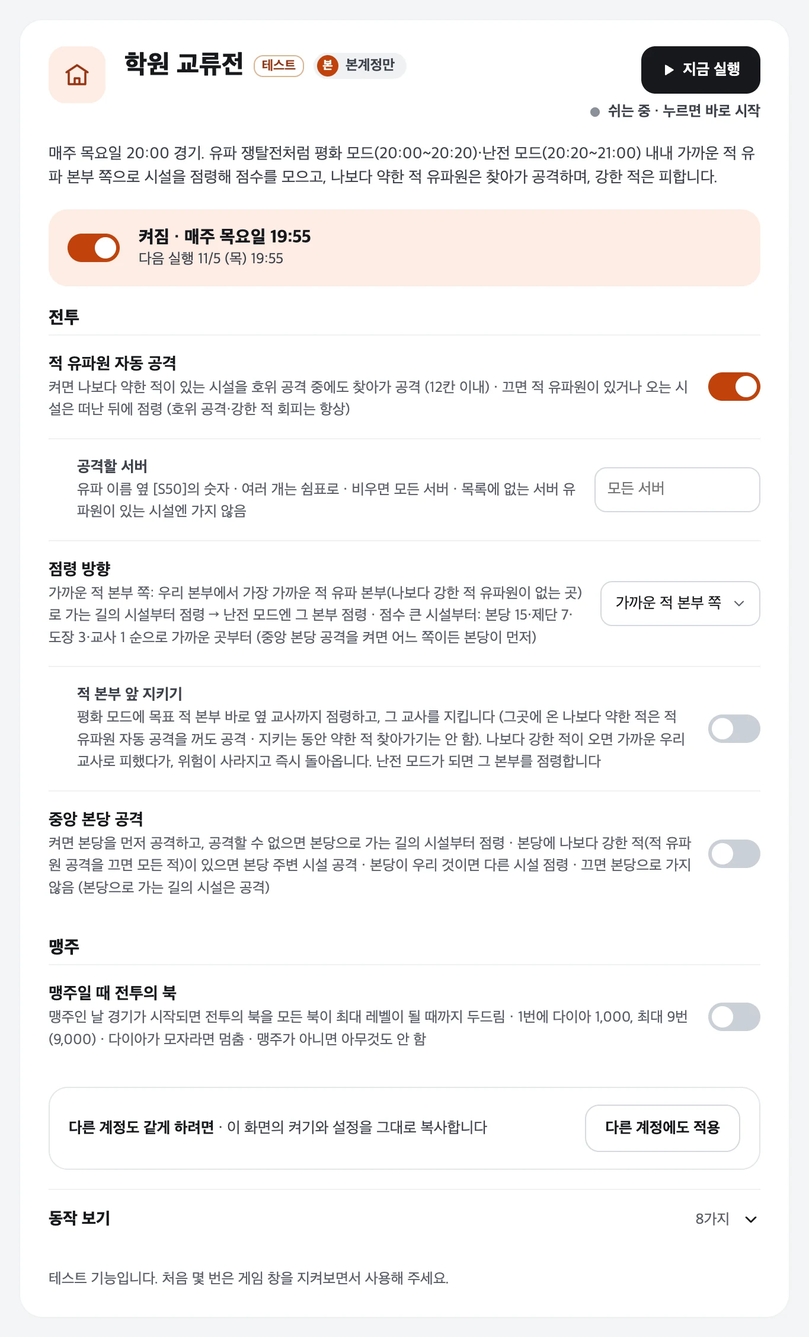
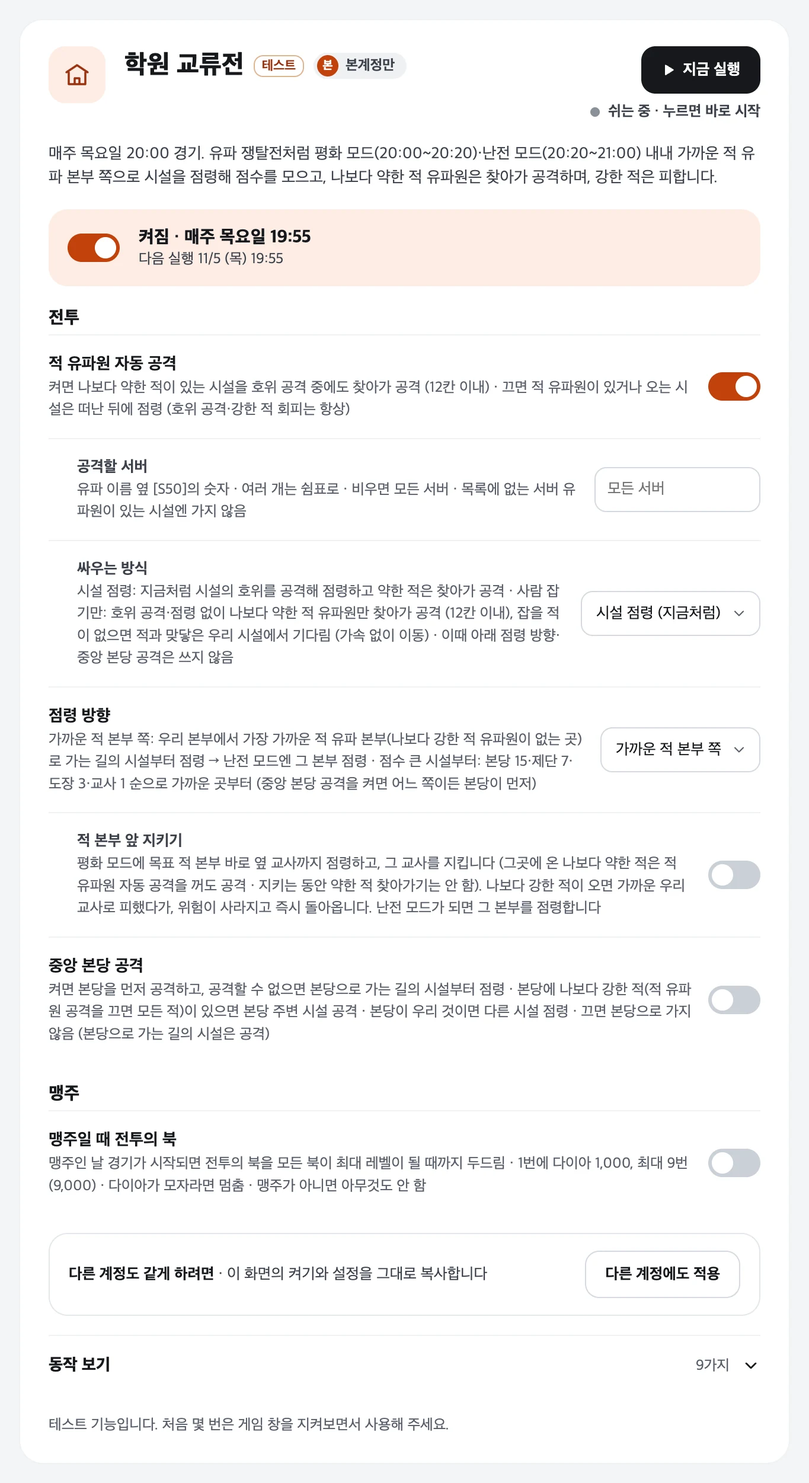
v1.5.182 홈페이지: 싸우는 방식·반상의 연무·경기 중 재시작·경기 중 설치 확인 창 등 (README와 같게, 교류전·쟁패전·자양 수프·일일 보상 설정 화면 이미지)
Claude-Session: https://claude.ai/code/session_01KmZac8kzEr3Wgyv8DkKzJ9

diff --git a/docs/features.html b/docs/features.html
@@ -45,7 +45,7 @@
     <b>주기 예약</b>
     <a href="#periodic">주기 예약이란</a><a href="#guaji">방치 수익 · 오중탑 …</a>
     <b>이벤트</b>
-    <a href="#events">이벤트 메뉴</a><a href="#hexwar">영지 쟁탈전</a><a href="#bluesea">푸른 바다에 피는 꽃</a><a href="#feast">연회 참가 · 각력 단련</a><a href="#jjdms">식신 파견</a><a href="#pzjg">카드 게임</a><a href="#match3">지혜 대결 퍼즐 대전</a>
+    <a href="#events">이벤트 메뉴</a><a href="#hexwar">영지 쟁탈전</a><a href="#town76">마을 풍경도</a><a href="#bluesea">푸른 바다에 피는 꽃</a><a href="#feast">연회 참가 · 각력 단련</a><a href="#jjdms">식신 파견</a><a href="#pzjg">카드 게임</a><a href="#match3">지혜 대결 퍼즐 대전</a>
     <b>경기 · 요일 예약</b>
     <a href="#sdsl">흑암 강림</a><a href="#taTeam">팀 경기장</a><a href="#arenaKeep">도장 연무 목표 순위</a><a href="#myld">명장 쟁패전 편성</a><a href="#ghApply">유파 경기 자동 신청</a><a href="#gvg">유파 쟁탈전</a><a href="#fz">학원 교류전</a><a href="#sjg">사검귀 습격</a><a href="#yc">학원 쟁패전</a>
     <b>공통</b>
@@ -183,7 +183,15 @@
           <div class="feat-h"><i data-i="castle"></i><div><h3>영지 쟁탈전</h3><div class="when">11/14~11/21 · 일일 보상 때 (대전은 주기 예약 끝에도)</div></div></div>
           <div class="set" id="ev-hexwar" data-s data-st="영지 쟁탈전 받는 보상" data-k="영지쟁탈전 영지 영지패스 패스 무료패키지 임무 활약도 일일임무 레벨보상 영지레벨 단계보상 신예무사 기금 대전횟수 결산 순위 메일 이벤트"><b>받는 보상 (v1.5.146부터)</b>매일 무료 패키지(영지 패스 2장), 임무(일일 임무 활약도 10·30·50·70·90·100 → 영지 패스 1장씩), 레벨 보상(영지 레벨이 오를 때마다), 단계 보상(신예 무사 영지 패스 5장 등 단계가 오를 때마다), 기금 무료 단계(대전 횟수 1·5·10…70번)를 받습니다. 임무는 일일 임무 활약도뿐이라 일일 보상이 일일 임무를 채우면 받고, 못 받은 임무는 대전 기록 줄 끝에 남깁니다. <b>매일 다이아 패키지</b>(다이아 300 → 영지 패스 4장, 하루 1번)는 이벤트 메뉴 → 영지 쟁탈전 카드의 「매일 다이아 패키지 사기」를 켠 경우에만 삽니다(기본 끔, v1.5.152부터). 현금 결제 패키지·교환소는 하지 않습니다. 순위·단계 결산 보상은 게임이 메일로 보내고, 일일 보상의 메일 보상 받기가 받습니다.</div>
           <div class="set" id="ev-hexwar-battle" data-s data-st="대전 (영지 쟁탈전)" data-k="대전 영지쟁탈전 영지 영지패스 육각 땅따먹기 봇 금광 자원 병영 방어탑 미개척 배율 다중권 카드강화 결산 이벤트"><b>대전 (설정 없이 늘, v1.5.147부터)</b>봇 상대 3분 육각 칸 땅따먹기를 화면에서 실제로 두어(금광·자원 칸 먼저, 다음 병영·방어탑, 미개척은 살 것이 없을 때) 가진 영지 패스를 모두 씁니다(1판에 1장, 이기면 Pt +100, 져도 +20). 일일 보상과 주기 예약이 끝날 때마다 영지 패스가 있으면 하고, 판 사이마다 다른 예약 차례가 되면 멈춰 그 예약을 먼저 한 뒤 이어서 합니다. 다음 경기 15분 전과 결산 시간, 휴대폰에서 게임 화면을 본 뒤 홈으로 나가 게임이 잠깐 멈춘 동안(v1.5.148부터)에는 하지 않습니다. 배율(다중권)은 게임 설정 그대로 두고, 교환소는 하지 않습니다. 판 수·승패·Pt는 그 판이 실제로 시작된 뒤의 새 결과 창으로만 세고, 대전이 시작되지 않거나 끝나지 않으면 실패로 남기지 않고 까닭과 함께 다음 실행에서 이어 합니다(v1.5.152부터). 결과 창은 다 열린 뒤 닫고 닫힐 때까지 기다린 다음 다음 판을 시작합니다(v1.5.153부터, 전에는 휴대폰에서 결과 창이 남아 2판째가 시작되지 않았습니다). 휴대폰에서 판 사이에 게임 화면을 들락거려 대전이 일시정지되어도 실패로 남기지 않고 다음 실행에서 이어 하며, 어떻게 끝나든 판 수·Pt·남은 영지 패스 요약 줄을 남깁니다(v1.5.155부터).</div>
-          <div class="set" id="ev-hexwar-card" data-s data-st="카드 강화 (영지 쟁탈전)" data-k="카드강화 카드 강화 강화코인 카드조각 공용조각 덱 금광 병영 방어탑 룬석 기술 영지쟁탈전 이벤트"><b>덱 · 카드 강화 · 기술 (설정 없이 늘, v1.5.149부터 · 덱 고르기와 기술은 v1.5.152부터)</b>판을 하기 전과 끝난 뒤, 가진 카드 중 게임 전투력이 가장 큰 덱(8장, 금광 카드는 늘, R·SR·SSR·SSSR 한 장씩, 방어탑 카드 한 장은 늘)으로 바꿉니다. 지금 덱보다 3% 넘게 셀 때만 바꿉니다(게임 전투력에 기술은 들지 않아, 기술을 올린 카드가 조금 센 카드에 밀려 빠지지 않게, v1.5.153부터). 그다음 이벤트가 끝나면 사라지는 강화 코인과 카드 조각으로 금광 카드 → 덱 전투력이 많이 오르는 강화 순서로 한 레벨씩 강화하고, 남은 것은 덱에 가까운 센 카드에 씁니다. 카드 조각이 모자라면 같은 등급 공용 조각으로 바꿔 채우고(전투력이 오르는 강화에만, 끝나기 24시간 안이면 모두), 법진석으로 덱 카드의 기술 칸을 열고 올립니다. 못 올린 덱 카드는 까닭을 남기고, 다이아·유료 아이템은 쓰지 않습니다.</div>
+          <div class="set" id="ev-hexwar-card" data-s data-st="카드 강화 (영지 쟁탈전)" data-k="카드강화 카드 강화 강화코인 카드조각 공용조각 덱 금광 병영 방어탑 룬석 기술 영지쟁탈전 이벤트"><b>덱 · 카드 강화 · 기술 (설정 없이 늘, v1.5.149부터 · 덱 고르기와 기술은 v1.5.152부터)</b>판을 하기 전과 끝난 뒤, 가진 카드 중 게임 전투력이 가장 큰 덱(8장, 금광 카드는 늘, R·SR·SSR·SSSR 한 장씩, 방어탑 카드 한 장은 늘)으로 바꿉니다. 지금 덱보다 3% 넘게 셀 때만 바꿉니다(게임 전투력에 기술은 들지 않아, 기술을 올린 카드가 조금 센 카드에 밀려 빠지지 않게, v1.5.153부터). 그다음 이벤트가 끝나면 사라지는 강화 코인과 카드 조각으로 금광 카드 → 덱 전투력이 많이 오르는 강화 순서로 한 레벨씩 강화하고, 남은 것은 덱에 가까운 센 카드에 씁니다. 카드 조각이 모자라면 같은 등급 공용 조각으로 바꿔 채우고(전투력이 오르는 강화에만, 끝나기 24시간 안이면 모두), 법진석으로 덱 카드의 기술 칸을 열고 올립니다. 못 올린 덱 카드는 까닭을 남기고, 다이아·유료 아이템은 쓰지 않습니다. 게임에서 카드·덱 정보를 읽지 못한 실행은 덱 바꾸기·카드 강화를 건너뛰고 다음 실행에서 다시 합니다(v1.5.182부터, 전에는 빈 정보로 덱을 새로 짜다 「저장 실패」로 끝났음).</div>
+        </div>
+      </article>
+
+      <article class="feat" id="town76" style="grid-template-columns:minmax(0,1fr)" data-k="마을풍경도 활기찬성의마을풍경도 풍경도 반상의연무 체스 미니게임 두루마리 돌격 천벌 부활 다이아">
+        <div>
+          <div class="feat-h"><i data-i="castle"></i><div><h3>활기찬 성의 마을 풍경도</h3><div class="when">11/20~11/27 · 일일 보상 때 (미니게임은 주기 예약 끝에도)</div></div></div>
+          <div class="set" id="ev-town76" data-s data-st="마을 풍경도 받는 보상" data-k="마을풍경도 풍경도 로그인 무료패키지 무한패키지 사냥상자 추첨 모집 공방 인기투표 패스 임무 이벤트"><b>받는 보상</b>로그인(무료, 고급·호화를 산 경우 그것도), 무료 패키지, 무한 패키지 무료 단계, 사냥 상자, 추첨·모집·공방 횟수 보상, 인기 투표 단계·임무 보상, 패스·임무. 이벤트 아이템 자동 사용을 켜면(기본 켬) 추첨권·모집권(설정한 횟수까지)·사냥·투표·장인의 공방(건설) 아이템과 패스 [사용] 아이템도 씁니다.</div>
+          <div class="set" id="ev-town76-chess" data-s data-st="미니게임 반상의 연무 (마을 풍경도)" data-k="반상의연무 반상 연무 체스 미니게임 두루마리 체스두루마리 돌격 천벌 부활 다이아 소탕 마을풍경도 이벤트"><b>미니게임 「반상의 연무」 (설정 없이 늘, v1.5.182부터)</b>하루 1판을 화면에서 실제로 둡니다(체스 두루마리 1개). 다음 적 차례에 잡히지 않는 칸 중 점수가 큰 적부터 잡고, 막히면 가진 돌격·천벌 아이템을 씁니다. 다른 예약까지 8분이 안 남았으면 그 예약 뒤에 두고, 남은 두루마리는 한 판 둔 뒤 소탕합니다(이벤트 아이템 자동 사용).<br><b>부활에 다이아 쓰기</b>(기본 끔): 이벤트 메뉴 → 마을 풍경도 카드에서 켜면, 졌을 때 다이아 200으로 부활합니다(판당 최대 2번 · 하루 400까지). 끄면 부활하지 않고 그대로 집계합니다.</div>
         </div>
       </article>
 
@@ -199,7 +207,7 @@
 
       <div class="mini-grid" style="margin-bottom:8px">
         <div class="mini" id="feast"><div class="feat-h"><i data-i="cup"></i><div><h3>연회 참가</h3><div class="when">켰을 때 · 하루 1~10회 (기본 끔)</div></div></div><p>이벤트 연회에 손님으로 참가해 다이아·교환 코인을 받고, 참가한 연회가 끝나는 대로 다음 연회에 들어갑니다. 기다리는 동안 채팅의 협상 협력 요청도 돕습니다.</p><p>이벤트 메뉴 → 할로윈 카니발 카드의 예약 기능에서 켜고 끄고, <kbd>자세한 설정</kbd>에서 횟수를 고릅니다. 그 이벤트가 끝나 있으면 「지난 이벤트」 탭의 쉬는 카드에 있습니다(v1.5.137 전에는 기능 설정의 주기 예약).</p><button class="see" type="button" data-zoom="img/panel-feast.webp" data-alt="연회 참가 설정">설정 화면 보기 →</button></div>
-        <div class="mini" id="kanjia-all" data-s data-st="각력 단련 참가권 모두 사용" data-k="각력단련 각력 참가권 특별훈련 입장권 모두사용"><div class="feat-h"><i data-i="flag"></i><div><h3>각력 단련 참가권 모두 사용</h3><div class="when">켰을 때 · 일일 보상 맨 끝 (기본 끔)</div></div></div><p>각력 단련 하루 5회(임무 분량)는 일일 보상이 늘 합니다. 이 칸을 켜면 그 뒤 남은 특별 훈련 입장권을 일일 보상 맨 끝에 모두 써서 참가합니다. 한 판에 4~5분이라 장수만큼 오래 걸립니다. 그사이 다른 예약 차례가 되면(명장 쟁패전 편성이 가깝거나 경기 20분 전도) 판 사이에서 멈춰 그 예약을 먼저 하고, 그 예약 끝에 남은 참가권을 이어서 씁니다(v1.5.164). 이어 쓸 때는 날이 바뀌어 하루 5회 전이어도 다른 예약 차례를 봅니다(v1.5.165).</p><p>이벤트 메뉴 → 각력 단련 카드의 예약 기능에서 켜고 끕니다. 이벤트가 끝나 있으면 「지난 이벤트」 탭의 쉬는 카드에 있습니다(v1.5.137 전에는 기능 설정 → 일일 보상).</p></div>
+        <div class="mini" id="kanjia-all" data-s data-st="각력 단련 참가권 모두 사용" data-k="각력단련 각력 참가권 특별훈련 입장권 모두사용"><div class="feat-h"><i data-i="flag"></i><div><h3>각력 단련 참가권 모두 사용</h3><div class="when">켰을 때 · 일일 보상 맨 끝 (기본 끔)</div></div></div><p>각력 단련 하루 5회(임무 분량)는 일일 보상이 늘 합니다. 5회 사이에도 다른 예약 차례가 되면 판 사이에 멈추고, 그 예약 끝에 남은 판을 이어서 합니다(v1.5.182부터). 이 칸을 켜면 그 뒤 남은 특별 훈련 입장권을 일일 보상 맨 끝에 모두 써서 참가합니다. 한 판에 4~5분이라 장수만큼 오래 걸립니다. 그사이 다른 예약 차례가 되면(명장 쟁패전 편성이 가깝거나 경기 20분 전도) 판 사이에서 멈춰 그 예약을 먼저 하고, 그 예약 끝에 남은 참가권을 이어서 씁니다(v1.5.164). 이어 쓸 때는 날이 바뀌어 하루 5회 전이어도 다른 예약 차례를 봅니다(v1.5.165).</p><p>이벤트 메뉴 → 각력 단련 카드의 예약 기능에서 켜고 끕니다. 이벤트가 끝나 있으면 「지난 이벤트」 탭의 쉬는 카드에 있습니다(v1.5.137 전에는 기능 설정 → 일일 보상).</p></div>
       </div>
 
       <article class="feat" id="jjdms">
@@ -426,6 +434,7 @@
             <li><b>적 본부 앞 지키기</b>(기본 끔, 점령 방향이 「가까운 적 본부 쪽」일 때만): 평화 모드에 목표 적 본부 바로 옆 교사까지 점령하고, 그 교사를 지킵니다. 그곳에 온 나보다 약한 적은 공격하고(<b>「적 유파원 자동 공격」을 꺼도 지키기 위해 공격</b>, 공격할 서버를 적었으면 그 서버만), 지키는 동안 약한 적 찾아가기·다른 시설 점령은 하지 않습니다. 나보다 강한 적이 오면 가까운 우리 교사로 피했다가, 위험이 사라지고 즉시 돌아옵니다. 그사이 빼앗겼으면 다시 점령합니다. 난전 모드가 되면 그 본부를 점령합니다. 우리 유파원이 지키는 시설은 적이 먼저 그 유파원을 이겨야 빼앗을 수 있습니다.</li>
             <li><b>나보다 약한 적 유파원</b>: 지금 시설에 있으면 먼저 공격하고, 갈 수 있는 12칸 안 시설에 와 있으면 호위 공격 중이라도 찾아갑니다. 나보다 강한 적이 있거나 오면 안전한 시설(우리·동맹 시설 먼저)로 피합니다.</li>
             <li><b>적 유파원 자동 공격</b>(기본 켬): 끄면 호위만 공격하고, 적 유파원이 있거나 오는 시설은 적이 떠난 뒤에 점령합니다. 그동안 다른 시설 확장은 계속하고, 강한 적 회피는 그대로입니다. <b>공격할 서버</b>를 정하면 다른 서버 유파원은 공격하지 않을 때처럼 피합니다.</li>
+            <li><b>싸우는 방식</b>(v1.5.182부터, 적 유파원 자동 공격을 켰을 때만): <b>시설 점령</b>(기본, 지금까지와 같음) 또는 <b>사람 잡기만</b>. 사람 잡기만이면 평화·난전 모드 모두 호위 공격·시설 점령은 하지 않고 <b>나보다 약한 적 유파원만</b> 공격합니다. 지금 시설 → 12칸 안 시설 순서로 찾아가고(난전 모드엔 적 본부의 적도), 잡을 적이 없으면 적 유파 시설과 맞닿은 우리 시설(없으면 빈 시설과 맞닿은 곳) 중 가까운 곳으로 <b>가속 없이</b> 옮겨 기다립니다(먼 빈 시설을 점령하러 가속하며 다이아를 쓰지 않음). 나보다 강한 적이 오면 가까운 우리 시설로 피합니다. 이때 점령 방향·적 본부 앞 지키기·중앙 본당 공격은 쓰지 않습니다(설정 화면에서 흐리게 보임). 맹주일 때 전투의 북은 그대로 합니다. 학원 쟁패전도 같습니다.</li>
             <li><b>부활</b>: 스스로 전투 불능이 된 뒤(지휘 부채가 조금 남았을 때) 부활하지 못하고 멈추던 문제를 고쳤습니다(v1.5.129). 부활 시각이 지나도 부활하지 않으면 요란 비서가 직접 부활합니다.</li>
             <li><b>중앙 본당 공격</b>(기본 끔): 켜면 두 모드 모두 본당 → 본당으로 가는 길의 시설 순서로 먼저 공격합니다. 본당이 우리 것이거나 갈 수 없으면 위 방식대로. 끄면 <b>본당으로는 가지 않습니다</b>(v1.5.116부터).</li>
             <li><b>유파 쟁탈전과 같이</b>(v1.5.132부터): 남은 이동이 20초 미만이면 이동 가속을 하지 않고(강한 적을 피할 때는 그대로), 호위 HP가 거의 0이고 다른 유파원이 와 있는 시설은 고르지 않으며, 경기가 끝나면 로그에 <a href="#gvg">경기 요약</a> 한 줄을 남깁니다.</li>
@@ -433,7 +442,7 @@
             <li><b>맹주일 때 전투의 북</b>(기본 끔): 맹주인 날 경기가 시작되면 전투의 북을 모두 최대 레벨까지 두드립니다 (1번에 다이아 1,000, 최대 9번).</li>
             <li>유파 신청은 회장·부회장 등이 게임에서 하고, 신청·선정되지 않은 주는 건너뜁니다.</li>
           </ul>
-          <p class="muted small">경기 내내 시설을 점령하는 방식·부활 고침(v1.5.129), 확장 방향(v1.5.130), 점령 방향·적 본부 앞 지키기(v1.5.131)는 아직 실전에서 확인하기 전입니다(교류전 첫 경기 11/19 목). 처음 몇 번은 게임 창을 지켜봐 주세요.</p>
+          <p class="muted small">싸우는 방식 「사람 잡기만」(v1.5.182)은 아직 실전에서 확인하기 전입니다. 처음 몇 번은 게임 창을 지켜봐 주세요.</p>
         </div>
         <figure class="shot panel"><img loading="lazy" src="img/panel-fz.webp" alt="학원 교류전 설정 화면"></figure>
       </article>
@@ -461,6 +470,7 @@
             <li><b>적 본부 앞 지키기</b>(기본 끔, 점령 방향이 「가까운 적 본부 쪽」일 때만): 평화 모드에 목표 적 본부 바로 옆 교사까지 점령하고, 그 교사를 지킵니다. 그곳에 온 나보다 약한 적은 공격하고(<b>「적 유파원 자동 공격」을 꺼도 지키기 위해 공격</b>, 공격할 서버를 적었으면 그 서버만), 지키는 동안 약한 적 찾아가기·다른 시설 점령은 하지 않습니다. 나보다 강한 적이 오면 가까운 우리 교사로 피했다가, 위험이 사라지고 즉시 돌아옵니다. 그사이 빼앗겼으면 다시 점령합니다. 난전 모드가 되면 그 본부를 점령합니다. 우리 유파원이 지키는 시설은 적이 먼저 그 유파원을 이겨야 빼앗을 수 있습니다.</li>
             <li><b>나보다 약한 적 유파원</b>: 지금 시설에 있으면 먼저 공격하고, 갈 수 있는 12칸 안 시설에 와 있으면 호위 공격 중이라도 찾아갑니다. 나보다 강한 적이 있거나 오면 안전한 시설로 피합니다.</li>
             <li><b>적 유파원 자동 공격</b>(기본 켬): 끄면 호위만 공격하고, 적 유파원이 있거나 오는 시설은 적이 떠난 뒤에 점령합니다(그동안 다른 시설 점령은 계속). <b>공격할 서버</b>를 정하면 다른 서버 유파원은 공격하지 않을 때처럼 피합니다.</li>
+            <li><b>싸우는 방식</b>(v1.5.182부터, 적 유파원 자동 공격을 켰을 때만): <b>시설 점령</b>(기본, 지금까지와 같음) 또는 <b>사람 잡기만</b>. 사람 잡기만이면 평화·난전 모드 모두 호위 공격·시설 점령은 하지 않고 <b>나보다 약한 적 유파원만</b> 공격합니다. 지금 시설 → 12칸 안 시설 순서로 찾아가고(난전 모드엔 적 본부의 적도), 잡을 적이 없으면 적 유파 시설과 맞닿은 우리 시설(없으면 빈 시설과 맞닿은 곳) 중 가까운 곳으로 <b>가속 없이</b> 옮겨 기다립니다(먼 빈 시설을 점령하러 가속하며 다이아를 쓰지 않음). 나보다 강한 적이 오면 가까운 우리 시설로 피합니다. 이때 점령 방향·적 본부 앞 지키기·중앙 본당 공격은 쓰지 않습니다(설정 화면에서 흐리게 보임). 학원 교류전도 같습니다.</li>
             <li><b>부활</b>: 스스로 전투 불능이 된 뒤 부활하지 못하고 멈추던 문제를 고쳐, 부활 시각이 지나도 부활하지 않으면 요란 비서가 직접 부활합니다(v1.5.129부터).</li>
             <li><b>유파 쟁탈전과 같이</b>(v1.5.132부터): 남은 이동이 20초 미만이면 이동 가속을 하지 않고(강한 적을 피할 때는 그대로), 호위 HP가 거의 0이고 다른 유파원이 와 있는 시설은 고르지 않으며, 경기가 끝나면 로그에 <a href="#gvg">경기 요약</a> 한 줄을 남깁니다.</li>
             <li><b>지도가 잠시 준비되지 않을 때</b>(v1.5.166부터, 유파 쟁탈전과 같이): 게임을 새로고침하지 않고 몇 초 뒤 다시 보며, 2분 넘게 이어질 때만 새로고침합니다. 전장이 열릴 때인데 눌러도 열리지 않으면 그 상태를 남깁니다.</li>
@@ -468,7 +478,7 @@
             <li><b>중앙 본당 공격</b>(기본 끔): 켜면 본당 → 본당으로 가는 길의 시설 순서로 공격합니다. 본당이 우리 것이면 다른 시설. 끄면 <b>본당으로는 가지 않고</b>, 본당으로 가는 길의 시설은 공격합니다(v1.5.116부터).</li>
             <li><b>예약</b>: <b>매주 토요일 19:55</b>(주간전, 1~4번째 토요일) · <b>그달 4번째 토요일 다음 일요일(23~29일) 19:55</b>(월간전, v1.5.131부터, 그 전에는 월간전을 하지 않았음). 유파가 그 주 경기에 신청·선출되지 않았거나, 월간전에 진출하지 못했거나 이 계정이 월간전 참가 명단에 없으면 건너뜁니다. 그달 5번째 토요일은 경기가 없어 건너뜁니다. 로그 첫머리에 「주간전 N회차」·「월간전」이 남습니다. 경기 시간대·다른 예약 비켜 주기·자동 업데이트 미루기도 월간전 일요일을 경기 날로 봅니다.</li>
           </ul>
-          <p class="muted small">경기 내내 시설을 점령하는 방식·확장 방향(v1.5.130), 점령 방향·적 본부 앞 지키기·월간전(v1.5.131), 부활 고침(v1.5.129)은 아직 실전에서 확인하기 전입니다(주간전 첫 경기 11/14 토, 월간전 11/29 일). 처음 몇 번은 게임 창을 지켜봐 주세요.</p>
+          <p class="muted small">경기 내내 시설을 점령하는 방식·확장 방향(v1.5.130), 점령 방향·적 본부 앞 지키기·월간전(v1.5.131), 부활 고침(v1.5.129), 싸우는 방식 「사람 잡기만」(v1.5.182)은 아직 실전에서 확인하기 전입니다(주간전 첫 경기 11/14 토, 월간전 11/29 일). 처음 몇 번은 게임 창을 지켜봐 주세요.</p>
         </div>
         <figure class="shot panel"><img loading="lazy" src="img/panel-yc.webp" alt="학원 쟁패전 설정 화면"></figure>
       </article>

diff --git a/docs/guide.html b/docs/guide.html
@@ -300,10 +300,10 @@
       <ul>
         <li><b>한 계정은 한 번에 한 기능</b>만 돕니다. 예약이 겹치면 시각이 먼저 된 것부터 하나씩, 앞의 기능이 끝난 뒤 시작합니다. 다른 계정은 동시에 돕니다. 오래 걸리는 보석채취는 위탁 끝을 기다리는 동안 다른 예약 차례가 되면 위탁은 둔 채 멈추고 그 예약을 먼저 한 뒤 「이어서」 합니다(v1.5.169부터).</li>
         <li><b>경기는 예외</b>로 경기 시각에 시작합니다(명장 쟁패전 편성 시각도 같음). 그때 보석채취·일일 보상이 돌고 있으면 멈췄다가 경기가 끝난 뒤 가장 먼저 이어서 하고, 그 밖의 기능이면 끝난 뒤 바로 시작합니다.</li>
-        <li><b>놓친 예약</b>: 앱이나 컴퓨터가 꺼져 있었으면(절전 포함) 켜지는 대로 같은 순서로 실행합니다 — 보석채취·일일 보상·속성 시련·검희 특훈·팀 경기장은 그날 자정 전까지, 흑암 강림은 다음 예약일 전까지. 경기는 시작 후 1시간이 지나면 건너뛰므로 <b>경기 시간에는 절전되지 않게</b> 해 주세요.</li>
+        <li><b>놓친 예약</b>: 앱이나 컴퓨터가 꺼져 있었으면(절전 포함) 켜지는 대로 같은 순서로 실행합니다 — 보석채취·일일 보상·속성 시련·검희 특훈·팀 경기장은 그날 자정 전까지, 흑암 강림은 다음 예약일 전까지. 경기는 시작 후 1시간이 지나면 건너뛰므로 <b>경기 시간에는 절전되지 않게</b> 해 주세요. 1시간(도장 연무 목표 순위는 30분) 안에 앱이 다시 켜지면(업데이트·앱을 껐다 켬·휴대폰 재시작) 그 경기를 아직 끝내지 않았을 때 <b>경기에 다시 들어갑니다</b>(로그 「예약 · 앱이 다시 켜져 이어서」, v1.5.182부터 — 전에는 다음 주 경기까지 하지 않았음).</li>
         <li><b>창을 닫아도</b> 트레이(윈도우: 작업 표시줄 오른쪽 / 맥: 메뉴바)의 다이아 아이콘으로 남아 예약을 지킵니다. 아이콘 메뉴의 <b>종료</b>로 완전히 끄면 예약이 동작하지 않습니다.</li>
         <li>Chrome이나 게임이 꺼져 있어도 실행할 때 자동으로 띄워서 접속합니다. 게임의 공지·이벤트 팝업과 절전 화면은 자동으로 닫습니다.</li>
-        <li>게임 메인 화면이 3분 안에 준비되지 않거나 게임이 로드되지 않아 기능이 멈추면, 다음 실행은 게임 창을 새로 엽니다(PC는 그 계정 전용 Chrome을 닫았다 다시 띄우고, 휴대폰은 게임 창을 닫고 새로 엶 — 게임 화면을 보고 있으면 그대로). 오류 줄에는 그때 보이던 화면·페이지 상태를 함께 남깁니다(v1.5.165부터). 기능이 끝났다고 알렸는데 30초(「중단:」으로 끝난 것은 뒷정리를 기다려 2분, v1.5.179부터) 안에 닫히지 않으면 그 기능만 끝내고 다음 예약으로 넘어갑니다(v1.5.178부터).</li>
+        <li>게임 메인 화면이 3분 안에 준비되지 않거나 게임이 로드되지 않아 기능이 멈추면, 다음 실행은 게임 창을 새로 엽니다(PC는 그 계정 전용 Chrome을 닫았다 다시 띄우고, 휴대폰은 게임 창을 닫고 새로 엶 — 게임 화면을 보고 있으면 그대로). 오류 줄에는 그때 보이던 화면·페이지 상태를 함께 남깁니다(v1.5.165부터). PC에서 게임을 다시 불러올 때 전용 Chrome 창이 최소화되어 숨겨져 있으면 먼저 앞으로 꺼낸 뒤 다시 불러옵니다(v1.5.182부터). 기능이 끝났다고 알렸는데 30초(「중단:」으로 끝난 것은 뒷정리를 기다려 2분, v1.5.179부터) 안에 닫히지 않으면 그 기능만 끝내고 다음 예약으로 넘어갑니다(v1.5.178부터).</li>
         <li>G123 게임 페이지는 띄운 지 <b>24시간</b>이 되면 스스로 다시 불러오고, 그때 하던 작업은 끊깁니다. 그래서 기능을 시작할 때 페이지를 띄운 지 20시간이 넘었으면 <b>먼저 다시 불러온 뒤</b> 시작합니다(로그 「G123 페이지가 N시간 지나 미리 다시 불러옴」, 경기·작업 도중에는 하지 않음, v1.5.118부터).</li>
         <li><b>다른 곳에서 같은 게임 계정으로 접속</b>하면 요란 비서 쪽 게임이 끊기고, 요란 비서는 30분을 기다렸다가 다시 접속합니다(경기는 바로 다시 접속). 더 일찍 이어 가려면 전용 Chrome 게임 창에서 [확인]을 누르세요.</li>
       </ul>
@@ -313,7 +313,7 @@
       <h2>자동 업데이트</h2>
       <ul>
         <li>새 버전이 나오면 앱이 <b>스스로 받아 업데이트</b>합니다(1시간마다 확인). 실행 중인 기능이 끝난 뒤 잠깐 꺼졌다 다시 켜지고, 밀린 예약은 이어서 합니다. 업데이트하기로 정한 뒤에는 새 기능을 시작하지 않습니다(v1.5.178부터). 휴대폰에서 설치를 시작하고 90초가 지나도 앱이 바뀌지 않으면 다시 예약을 합니다(v1.5.180부터).</li>
-        <li>경기 15분 전부터 경기가 끝날 때까지는 업데이트하지 않습니다.</li>
+        <li>경기 15분 전부터 경기가 끝날 때까지는 업데이트하지 않습니다. 휴대폰에서 경기 중에는 「새 버전」 알림·진행 상황 알림·앱 위쪽 안내에 「경기 중이라 경기 뒤(21:00)에 설치해 주세요」가 뜨고, 그때 알림을 눌러 설치하려 하면 「지금 경기 중입니다」 확인 창이 먼저 뜹니다(<kbd>경기 뒤에 설치</kbd>는 닫기, <kbd>지금 설치</kbd>는 바로 설치 — 다시 켜지면 그 경기에 다시 들어감, v1.5.182부터).</li>
         <li>맥은 앱이 <b>응용 프로그램</b> 폴더에 있어야 자동으로 바뀝니다. 바꿀 수 없으면 창 위쪽에 안내가 나오니 <a href="#download">다운로드</a>에서 받아 설치하세요.</li>
         <li>안드로이드 앱은 새 버전을 받아 두고, <b>안드로이드 12 이상</b>이면 기능이 끝난 뒤 확인 창 없이 자동으로 설치합니다(v1.5.110부터, v1.5.109 이하에서는 이번 한 번만 직접 설치). 게임 화면을 보고 있는 동안에는 설치를 미루고, 오래 미뤄지면 진행 상황 알림에 「새 버전 vX · 게임 화면을 닫으면 설치」가 뜹니다(v1.5.114부터). 자동으로 설치할 수 없으면 알림이나 앱 위쪽 안내를 눌러 <kbd>업데이트</kbd>를 누르세요(<a href="#android">안드로이드 앱</a>). 최신 갤럭시(S25 등)는 이때 안드로이드 설치 화면이 뜹니다(v1.5.133부터, <a href="android.html#update-selfblock">자세히</a>).</li>
         <li><b>최소 버전</b>: 관리자가 정한 버전보다 낮은 앱은 기능을 실행하지 않고 화면 맨 위에 「이 버전은 더 이상 동작하지 않습니다」 안내를 띄웁니다. 업데이트는 막지 않으니 새 버전이 설치되면 바로 다시 동작합니다. 막힌 동안은 실행 중인 기능만 없으면 경기 시간과 상관없이 바로 업데이트합니다(v1.5.110부터). PC는 자동 업데이트를 기다리거나 <a href="#download">다운로드</a>에서 받고, 휴대폰은 알림에서 업데이트하세요.</li>

diff --git a/docs/android.html b/docs/android.html
@@ -415,6 +415,7 @@
             <li>끝나면 요란 비서가 <b>저절로 다시 켜집니다</b>. 설정·계정·게임 로그인은 그대로입니다.</li>
           </ol>
           <p class="muted small">설치하는 동안 요란 비서가 잠깐 멈추므로, 기능이 도는 중이면 끝난 뒤(알림이 「대기 중」일 때) 누르세요. 바로 받고 싶으면 <a href="#update-now">지금 바로 업데이트</a>를 보세요.</p>
+          <p class="muted small"><b>경기 중</b>(유파 쟁탈전·학원 쟁패전·학원 교류전·사검귀 습격·도장 연무 목표 순위가 실행 중)에는 알림과 앱 위쪽 안내에 <b>「경기 중이라 경기 뒤(21:00)에 설치해 주세요」</b>가 뜨고, 눌러도 <b>「지금 경기 중입니다」</b> 확인 창이 먼저 뜹니다. <kbd>경기 뒤에 설치</kbd>를 누르고 경기가 끝난 뒤 설치하세요. <kbd>지금 설치</kbd>를 누르면 바로 설치되고, 요란 비서가 다시 켜지면 그 경기에 다시 들어갑니다(v1.5.182부터).</p>
         </div>
         <div class="figs">
           <figure class="mock"><div class="scr dark">
